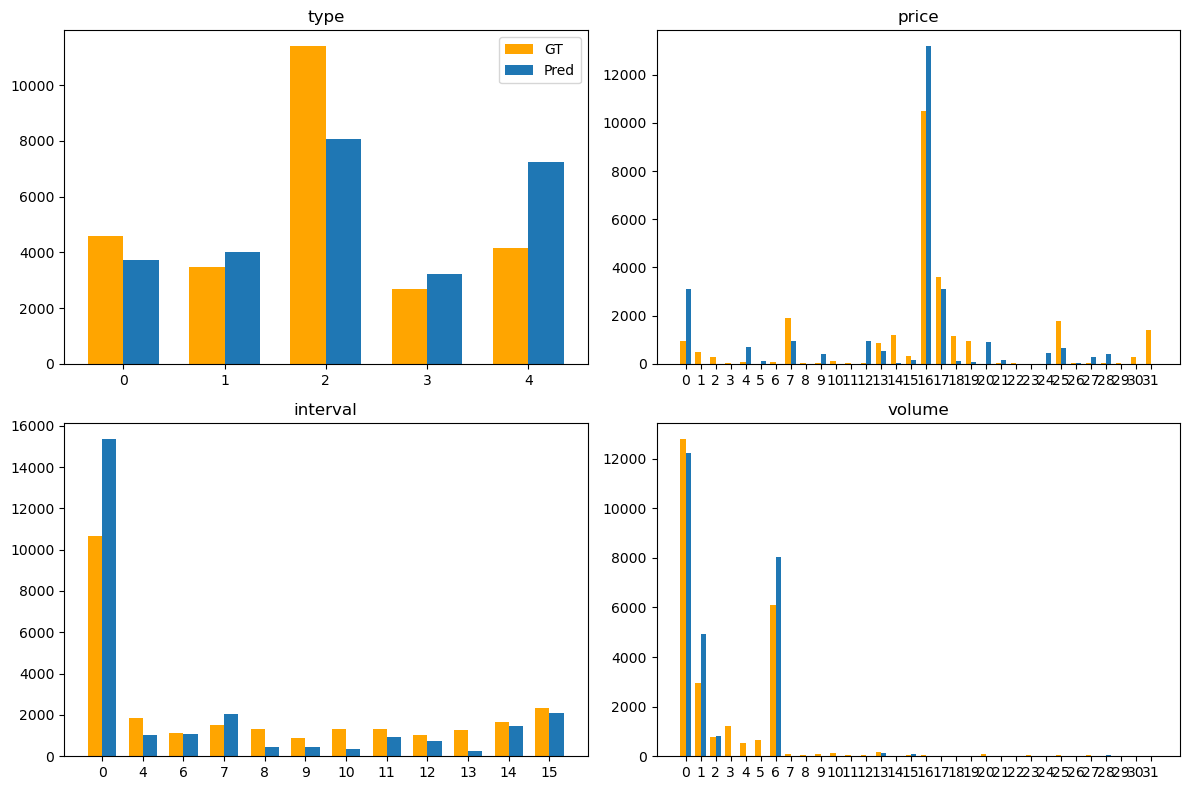
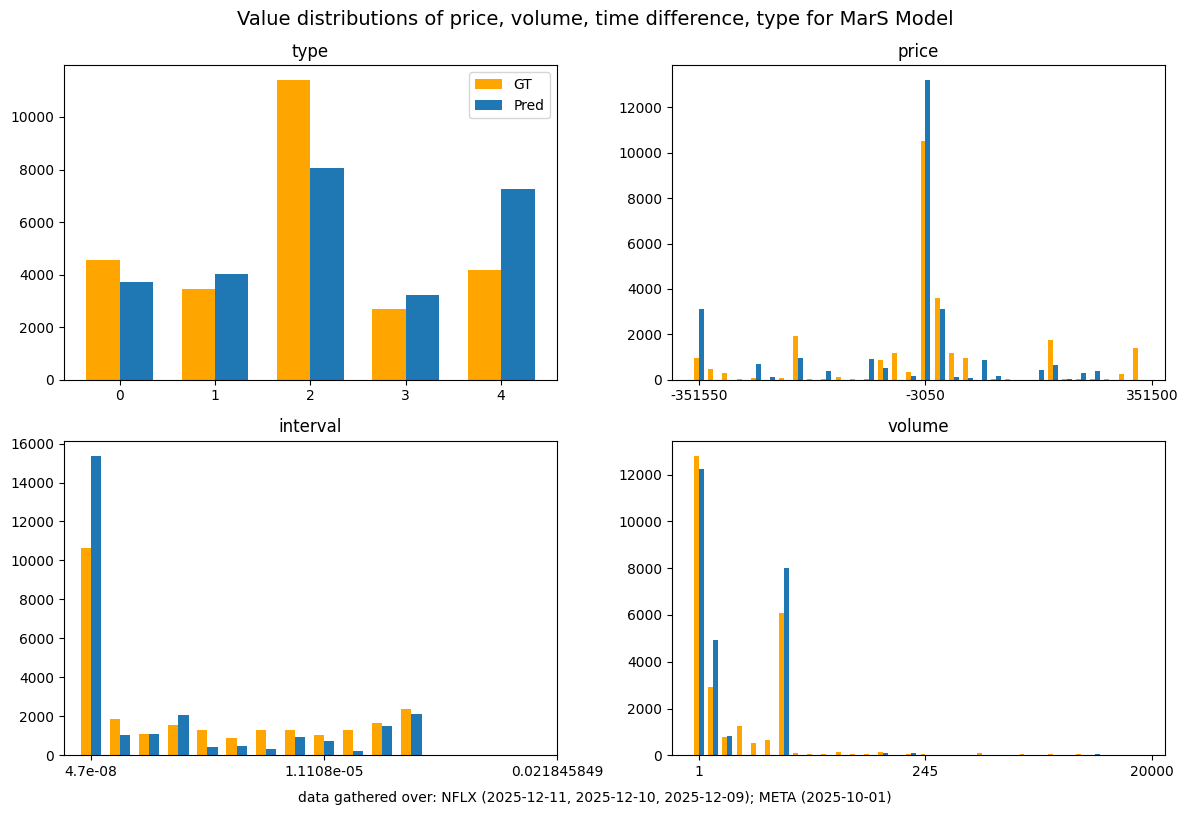
last

diff --git a/custom_code/testing/values_distributions/draw_figures.py b/custom_code/testing/values_distributions/draw_figures.py
@@ -6,11 +6,16 @@ import numpy as np
 import matplotlib.pyplot as plt
 import glob, re
 
+from dataclasses import dataclass
 from pathlib import Path
 from collections import Counter
 
 from market_simulation.states.order_state import OrderState, PredOrderInfo
 from market_simulation.utils.bin_converter import BinConverter
+
+from custom_code.preprocessing.order_model.messages_to_features import (
+    build_converters_from_samples,
+)
 
 
 NUM_BINS_PRICE_LEVEL = 32
@@ -27,6 +32,7 @@ class Converters:
     lob_volume: BinConverter
 with open("converters_portable.json", "r", encoding="utf-8") as f:
     obj = json.load(f)
+
 price_minus_mid = []
 for bin_item in obj["state"]["price_level"]["bin_values"]:
     price_minus_mid.extend(bin_item["data"])
@@ -45,18 +51,15 @@ for bin_item in obj["state"]["lob_volume"]["bin_values"]:
 
 converters = build_converters_from_samples(price_minus_mid, sizes, intervals, lob_vols)
 
-print(converter.price_level.bins)
-print(converter.order_volume.bins)
-print(converter.pred_order_volume.bins)
-print(converter.order_interval.bins)
+print(converters.price_level.bins)
+print(converters.order_volume.bins)
+print(converters.pred_order_volume.bins)
+print(converters.order_interval.bins)
 
-exit()
+#exit()
 
 data_folder = Path("jsons")
 
-
-days = []
-stocks = []
 
 
 
@@ -82,7 +85,7 @@ def rearrange_order_type(type_, price):
 
 
 
-def plot_feature_distribution(values_dico, feature_name, ax, gt_color="orange"):
+def plot_feature_distribution(values_dico, feature_name, ax, gt_color="orange", xtick_pos=None, xtick_labels=None):
     gt_values = []
     pred_values = []
 
@@ -109,12 +112,22 @@ def plot_feature_distribution(values_dico, feature_name, ax, gt_color="orange"):
     ax.bar(x + width/2, pred, width, label="Pred")
 
     ax.set_title(feature_name)
-    ax.set_xticks(x)
-    ax.set_xticklabels(classes)
+    if xtick_pos is not None and xtick_labels is not None:
+        ax.set_xticks(xtick_pos)
+        ax.set_xticklabels(xtick_labels)
+    else:
+        ax.set_xticks(x)
+        ax.set_xticklabels(classes)
 
+
+
+
+
+days = []
 
 
 values_dico = {}
+stock_days = {}
 
 # iterate over all stock/date present in jsons, and gather data into the "values" dict
 for file_gt in data_folder.glob("*order-indices-gt.json"):
@@ -122,10 +135,14 @@ for file_gt in data_folder.glob("*order-indices-gt.json"):
     # retrieve data stock name and date and store them
     stock = file_gt.stem.split("_")[0]
     day = file_gt.stem.split("_")[1]
-    if stock not in stocks:
-        stocks.append(stock)
+
+    if stock not in stock_days:
+        stock_days[stock] = []
+    stock_days[stock].append(day)
+
     if day not in days:
         days.append(day)
+
 
     # retrieve corresponding prediction file
     file_pred = Path(data_folder / file_gt.name.replace("-gt", "-pred"))
@@ -212,15 +229,49 @@ for file_gt in data_folder.glob("*order-indices-gt.json"):
         values_dico[day][stock][kk]["interval"]["predicted"] = pred_order_interval
 
 
+# print(stock_days)
+# exit()Value distributions of price, volume, time difference, type and side for LOBERT model
 
 
 # Create 2x2 figure
 fig, axes = plt.subplots(2, 2, figsize=(12, 8))
+fig.suptitle("Value distributions of price, volume, time difference, type for MarS Model", fontsize=14)
+
+caption = "data gathered over: " + "; ".join(
+    f"{stock} ({', '.join(days)})" for stock, days in stock_days.items()
+)
+
+fig.text(0.5, -0.01, caption, ha="center", fontsize=10)
 
 features = ["type", "price", "interval", "volume"]
 
+converter_map = {
+    "price": converters.price_level,
+    "interval": converters.order_interval,
+    "volume": converters.order_volume,
+}
+
 for ax, feature in zip(axes.flat, features):
-    plot_feature_distribution(values_dico, feature, ax)
+    if feature in converter_map:
+        bins = converter_map[feature].bins
+        mid = len(bins) // 2
+
+        bin_first = bins[0]
+        bin_mid = bins[mid]
+        bin_last = bins[-1]
+        if feature in ["price", "volume"]:
+            bin_first = int(bin_first)
+            bin_mid = int(bin_mid)
+            bin_last = int(bin_last)
+        plot_feature_distribution(
+            values_dico,
+            feature,
+            ax,
+            xtick_pos=[0, mid, len(bins) - 1],
+            xtick_labels=[bin_first, bin_mid, bin_last],
+        )
+    else:
+        plot_feature_distribution(values_dico, feature, ax)
 
 axes[0,0].legend()
 

diff --git a/custom_code/testing/data/read.py b/custom_code/testing/data/read.py
@@ -1,7 +1,11 @@
 import pandas as pd
 import matplotlib.pyplot as plt
 
-df = pd.read_parquet("LOBSTER_META_2025-10-01_messages_10.parquet")
+df = pd.read_parquet("META_2025-10-01_messages.parquet")
+
+# 7268100
+
+# if tick is 0.0001
 
 print(df)
 
@@ -9,10 +13,10 @@ print(df)
 
 # print(df[(df["Message_Type"] == 4) & (df["Order"] == 376839)])
 
-print(df[(df["Message_Type"] == 4)])
-
-
-
+#print(df[(df["Message_Type"] == 4)])
+meta = pd.read_parquet("META_2025-10-01_meta.parquet")
+print(meta)
+exit()
 
 
 df["Mid_Price"] = (
